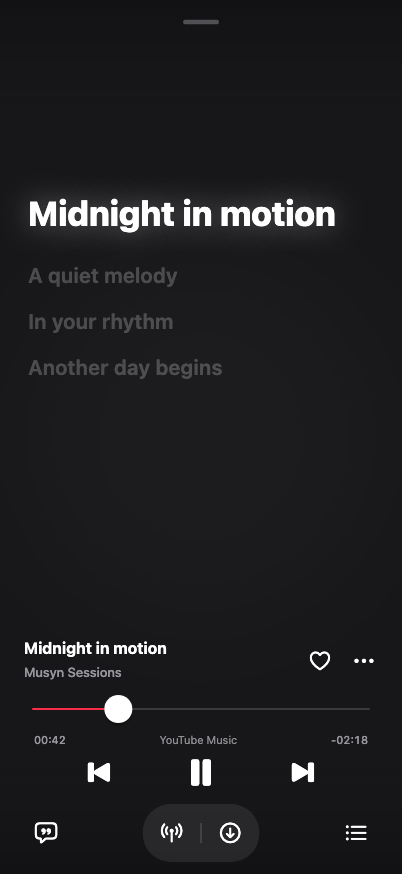
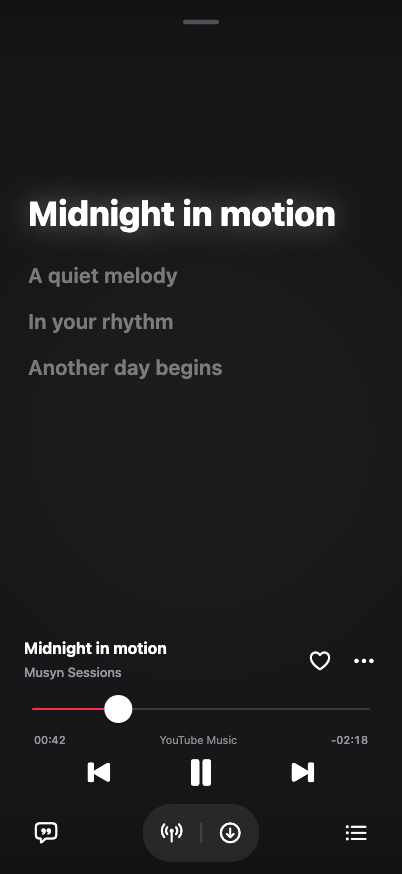
fix: guard source changes and offline replacement

Changed region(s): [[0.0597, 0.3089, 0.5672, 0.4325]]

diff --git a/test/queue_recommendation_race_test.dart b/test/queue_recommendation_race_test.dart
@@ -23,91 +23,105 @@ class ProbePlayer extends ControlledPlayer {
 
 void main() {
   TestWidgetsFlutterBinding.ensureInitialized();
-  test(
-    'clearing the queue invalidates an already-running end-of-queue recommendation',
-    () async {
-      final directory = await Directory.systemTemp.createTemp(
-        'musyn-audit-queue-',
-      );
-      Hive.init(directory.path);
-      for (final box in [
-        'settings',
-        'user',
-        'cache',
-        'youtube_auth',
-        'userNoBackup',
-      ]) {
-        await Hive.openBox(box, bytes: Uint8List(0));
-      }
-      TestDefaultBinaryMessengerBinding.instance.defaultBinaryMessenger
-          .setMockMethodCallHandler(
-            const MethodChannel('com.ryanheise.audio_session'),
-            (_) async => null,
-          );
-      final player = ProbePlayer()..paused = false;
-      final handler = MusynAudioHandler(player: player);
-      try {
-        offlineMode.value = false;
-        playNextSongAutomatically.value = true;
-        await handler.addToQueue({
-          'ytid': 'abcdefghijk',
-          'title': 'Original track',
-          'artist': 'Artist',
-          'duration': 180,
-        });
-        final offline = File('${directory.path}/recommendation.m4a');
-        await offline.writeAsBytes(List.filled(9000, 1));
-        userOfflineSongs.value = [
-          {
-            'ytid': 'lmnopqrstuv',
-            'title': 'Stale recommendation',
-            'artist': 'Artist',
-            'audioPath': offline.path,
-          },
-        ];
-        final entered = Completer<void>();
-        final response = Completer<http.Response>();
-        await http.runWithClient(
-          () async {
-            final skipping = handler.skipToNext();
-            await entered.future.timeout(const Duration(seconds: 2));
-            handler.clearQueue();
-            response.complete(
-              http.Response(
-                jsonEncode({
-                  'playlistPanelVideoRenderer': {
-                    'videoId': 'lmnopqrstuv',
-                    'title': {
-                      'runs': [
-                        {'text': 'Stale recommendation'},
-                      ],
-                    },
-                    'longBylineText': {
-                      'runs': [
-                        {'text': 'Artist'},
-                      ],
-                    },
-                  },
-                }),
-                200,
-              ),
-            );
-            await skipping.timeout(const Duration(seconds: 5));
-            expect(
-              handler.queue.value.map((item) => item.extras?['ytid']).toList(),
-              ['abcdefghijk'],
-            );
-          },
-          () => MockClient((request) {
-            if (!entered.isCompleted) entered.complete();
-            return response.future;
-          }),
+  for (final action in ['clearQueue', 'switchSource']) {
+    test(
+      '$action invalidates an already-running end-of-queue recommendation',
+      () async {
+        final directory = await Directory.systemTemp.createTemp(
+          'musyn-audit-queue-',
         );
-      } finally {
-        await handler.dispose();
-        await Hive.close();
-        await directory.delete(recursive: true);
-      }
-    },
-  );
+        Hive.init(directory.path);
+        for (final box in [
+          'settings',
+          'user',
+          'cache',
+          'youtube_auth',
+          'userNoBackup',
+        ]) {
+          await Hive.openBox(box, bytes: Uint8List(0));
+        }
+        TestDefaultBinaryMessengerBinding.instance.defaultBinaryMessenger
+            .setMockMethodCallHandler(
+              const MethodChannel('com.ryanheise.audio_session'),
+              (_) async => null,
+            );
+        final player = ProbePlayer()..paused = false;
+        final handler = MusynAudioHandler(player: player);
+        try {
+          offlineMode.value = false;
+          playNextSongAutomatically.value = true;
+          await handler.addToQueue({
+            'ytid': 'abcdefghijk',
+            'title': 'Original track',
+            'artist': 'Artist',
+            'duration': 180,
+          });
+          final offline = File('${directory.path}/recommendation.m4a');
+          await offline.writeAsBytes(List.filled(60000, 1));
+          userOfflineSongs.value = [
+            {
+              'ytid': 'abcdefghijk',
+              'title': 'Original track',
+              'artist': 'Artist',
+              'audioPath': offline.path,
+            },
+            {
+              'ytid': 'lmnopqrstuv',
+              'title': 'Stale recommendation',
+              'artist': 'Artist',
+              'audioPath': offline.path,
+            },
+          ];
+          final entered = Completer<void>();
+          final response = Completer<http.Response>();
+          await http.runWithClient(
+            () async {
+              final skipping = handler.skipToNext();
+              await entered.future.timeout(const Duration(seconds: 2));
+              if (action == 'clearQueue') {
+                handler.clearQueue();
+              } else {
+                expect(await handler.switchSource('offline'), 'offline');
+              }
+              response.complete(
+                http.Response(
+                  jsonEncode({
+                    'playlistPanelVideoRenderer': {
+                      'videoId': 'lmnopqrstuv',
+                      'title': {
+                        'runs': [
+                          {'text': 'Stale recommendation'},
+                        ],
+                      },
+                      'longBylineText': {
+                        'runs': [
+                          {'text': 'Artist'},
+                        ],
+                      },
+                    },
+                  }),
+                  200,
+                ),
+              );
+              await skipping.timeout(const Duration(seconds: 5));
+              expect(
+                handler.queue.value
+                    .map((item) => item.extras?['ytid'])
+                    .toList(),
+                ['abcdefghijk'],
+              );
+            },
+            () => MockClient((request) {
+              if (!entered.isCompleted) entered.complete();
+              return response.future;
+            }),
+          );
+        } finally {
+          await handler.dispose();
+          await Hive.close();
+          await directory.delete(recursive: true);
+        }
+      },
+    );
+  }
 }

diff --git a/lib/widgets/now_playing/lyrics/lyrics_theme.dart b/lib/widgets/now_playing/lyrics/lyrics_theme.dart
@@ -4,41 +4,35 @@ import 'package:musyn/theme/musyn_style.dart';
 /// Visual tokens for live / synced lyrics.
 ///
 /// Active line: center-aligned, highlighted in accent pink, bold, large.
-/// Past lines:  muted ~40% — clearly read, clearly behind.
-/// Future lines: very dim ~22% — readable but receding.
+/// Past lines: readable, muted text behind the current line.
+/// Future lines: receding text with enough contrast to follow along.
 class LyricsTheme {
-  LyricsTheme({
-    required this.isDark,
-    required Color accent,
-  }) : accent = accent == CupertinoColors.activeBlue
-      ? MusynStyle.appleRed
-      : accent;
+  LyricsTheme({required this.isDark, required Color accent})
+    : accent = accent == CupertinoColors.activeBlue
+          ? MusynStyle.appleRed
+          : accent;
 
   final bool isDark;
   final Color accent;
 
-  Color get canvas => isDark ? const Color(0xFF0A0A0E) : const Color(0xFFF2F2F7);
+  Color get canvas =>
+      isDark ? const Color(0xFF0A0A0E) : const Color(0xFFF2F2F7);
 
-  Color get onCanvas =>
-      isDark ? CupertinoColors.white : CupertinoColors.black;
+  Color get onCanvas => isDark ? CupertinoColors.white : CupertinoColors.black;
 
   /// Active line matches Apple Music signature high-contrast typography.
   Color get activeColor => onCanvas;
 
   /// Past lines — clearly visible but receded.
-  Color get pastColor =>
-      onCanvas.withValues(alpha: isDark ? 0.40 : 0.36);
+  Color get pastColor => onCanvas.withValues(alpha: isDark ? 0.55 : 0.50);
 
   /// Future / upcoming lines — very dim.
-  Color get futureColor =>
-      onCanvas.withValues(alpha: isDark ? 0.22 : 0.18);
+  Color get futureColor => onCanvas.withValues(alpha: 0.42);
 
   // Keep muted/faint/hairline/chipFill for other widgets that use LyricsTheme.
-  Color get muted =>
-      onCanvas.withValues(alpha: isDark ? 0.45 : 0.40);
+  Color get muted => onCanvas.withValues(alpha: isDark ? 0.45 : 0.40);
 
-  Color get faint =>
-      onCanvas.withValues(alpha: isDark ? 0.28 : 0.25);
+  Color get faint => onCanvas.withValues(alpha: isDark ? 0.28 : 0.25);
 
   Color get hairline =>
       isDark ? const Color(0x1AFFFFFF) : const Color(0x14000000);
@@ -46,19 +40,13 @@ class LyricsTheme {
   Color get chipFill =>
       isDark ? const Color(0x22FFFFFF) : const Color(0x12000000);
 
-  Color lineColor({
-    required bool isActive,
-    required bool isPast,
-  }) {
+  Color lineColor({required bool isActive, required bool isPast}) {
     if (isActive) return activeColor;
     if (isPast) return pastColor;
     return futureColor;
   }
 
-  double fontSize({
-    required bool isActive,
-    required LyricsLayout layout,
-  }) {
+  double fontSize({required bool isActive, required LyricsLayout layout}) {
     switch (layout) {
       case LyricsLayout.compact:
         return isActive ? 21 : 15;
@@ -92,12 +80,7 @@ class LyricsTheme {
       decoration: TextDecoration.none,
       // Soft pink glow on active line in full-screen.
       shadows: isActive && layout == LyricsLayout.stage
-          ? [
-              Shadow(
-                color: activeColor.withValues(alpha: 0.35),
-                blurRadius: 24,
-              ),
-            ]
+          ? [Shadow(color: activeColor.withValues(alpha: 0.35), blurRadius: 24)]
           : null,
     );
   }

diff --git a/lib/services/common_services.dart b/lib/services/common_services.dart
@@ -579,12 +579,14 @@ bool isPlaylistFullyOffline(List songs) {
   );
 }
 
+const minimumOfflineAudioBytes = 51201;
+
 bool _isPlayableAudioFile(String? path) {
   if (path == null || path.isEmpty) return false;
   try {
     final file = File(path);
     // 50 KB minimum — 8 KB was too low and marked truncated files as valid.
-    return file.existsSync() && file.lengthSync() > 51200;
+    return file.existsSync() && file.lengthSync() >= minimumOfflineAudioBytes;
   } catch (e) {
     logger.log('_isPlayableAudioFile check failed', error: e);
     return false;
@@ -1477,6 +1479,7 @@ Future<bool> _makeSongOffline(
           }
           await writeDownloadAtomically(
             destination: audioFile,
+            minimumBytes: minimumOfflineAudioBytes,
             bytes: response.stream,
             cancellation: cancellation,
             expectedBytes: response.contentLength,
@@ -1539,6 +1542,7 @@ Future<bool> _makeSongOffline(
         downloadedSource = 'youtube';
         audioBitrateKbps = audioManifest.bitrate.kiloBitsPerSecond.round();
         audioCodec = audioManifest.audioCodec;
+        if (audioCodec.toLowerCase().startsWith('video/')) return false;
         onResolved?.call('youtube', audioBitrateKbps);
 
         final streamDuration = youtubeStreamDurationSeconds(audioManifest.url);
@@ -1553,6 +1557,7 @@ Future<bool> _makeSongOffline(
         );
         await writeDownloadAtomically(
           destination: audioFile,
+          minimumBytes: minimumOfflineAudioBytes,
           bytes: stream,
           cancellation: cancellation,
           expectedBytes: audioManifest.size.totalBytes,

diff --git a/test/download_transfer_test.dart b/test/download_transfer_test.dart
@@ -87,6 +87,25 @@ void main() {
     );
   }
 
+  test(
+    'offline playback minimum is checked before replacing a saved copy',
+    () async {
+      final previous = List.filled(60000, 7);
+      await file.writeAsBytes(previous);
+      await expectLater(
+        writeDownloadAtomically(
+          destination: file,
+          bytes: Stream.value(List.filled(40000, 1)),
+          expectedBytes: 40000,
+          minimumBytes: 51201,
+          cancellation: DownloadCancellation(),
+        ),
+        throwsA(isA<HttpException>()),
+      );
+      expect(await file.readAsBytes(), previous);
+    },
+  );
+
   test('successful transfer commits the exact bytes', () async {
     final bytes = List.filled(9000, 7);
     final progress = <(int, int?)>[];

diff --git a/lib/services/audio/musyn_audio_handler.dart b/lib/services/audio/musyn_audio_handler.dart
@@ -2509,6 +2509,9 @@ class MusynAudioHandler extends PlaybackController {
       return null;
     }
     _playback.sourceSwitchInFlight = true;
+    // A new explicit source choice supersedes recommendation requests made for
+    // the previous selection, including requests that have not returned yet.
+    ++_selectionRevision;
     logger.log(
       'Source switch $previousSource → $source',
       data: {'ytid': ytid, 'title': song['title']},

diff --git a/docs/0.1.5-fixes.md b/docs/0.1.5-fixes.md
@@ -5,19 +5,19 @@ This change follows the seven supplied iPhone screenshots and the independently 
 ## Changes and evidence
 
 - **Content obscured by controls:** the shell reserves a viewport above the 56-point mini-player and native four-tab bar. Keyboard presentation hides the dock. A 402×874 fixture with 59/34-point safe-area insets verifies that content bounds stop above controls. Four full-shell renders are in `ui-review/iphone-*-dark.png`.
-- **Player and lyrics:** smaller transport icons; the lyrics/queue dock omits volume to preserve reading space; title styles become compact in those panes. Removed lyrics-only black gradients that produced the rectangular seam. Existing route pull/swipe and queue controls remain wired. `ui-review/lyrics-dark.png` shows the rendered lyrics pane.
+- **Player and lyrics:** smaller transport icons; the lyrics/queue dock omits volume to preserve reading space; title styles become compact in those panes. Removed lyrics-only black gradients that produced the rectangular seam and increased inactive-line contrast. Existing route pull/swipe and queue controls remain wired. `ui-review/lyrics-dark.png` shows the rendered lyrics pane.
 - **Sheets:** compact neutral provider rows, a real spring return for cancelled sheet drags, reachable close controls, and a sheet surface painted through the bottom safe area. Titles retain the full width at large text sizes. Source switching retains pending/error/retry behavior.
 - **Quality claims:** removed lossless labels from source and track details. Download preferences are upper limits, and activity displays the resolved source/bitrate only after resolution. Track details read the actual saved `audioBitrateKbps`/`audioCodec` keys.
 - **Refresh error and charts:** inspected the live anonymous `FEmusic_charts` response for India. It exposed national music-video charts, Trending 20, seven language charts and artist rankings, but no song chart. `YouTubePlaylistParser.officialCharts` scopes chart shelves, excludes artist/non-playlist entries, retains provider order within groups and labels each group/country. Songs are never replaced by video suggestions. Sanitized endpoint/title fixture: `test/fixtures/youtube_charts_india.json`. Country requests send `formData.selectedValues`; concurrent requests coalesce per region, and late responses cannot publish trending tracks for a different region. An unavailable song chart is availability rather than a failed refresh. Chart Play loads the actual playlist and starts at index zero without shuffle.
 - **Seek regression:** replaced the custom scrubber with a native slider plus track tap handling. Real pointer tests verify a 75% tap and cancellation without a seek. Fresh selections reset stale progress; source replacements preserve progress.
 - **Queue race:** foreground recommendations capture selection revision and current queue entry, reject results after Clear Queue/source/selection changes, and deduplicate concurrent end-of-queue requests. Background insertion rechecks after each awaited insertion.
-- **Download integrity:** exact known byte-count verification replaces the former 90% acceptance threshold. Tests reject both 9,500 and 10,500 bytes for a 10,000-byte transfer while preserving the previous file. Last-resort YouTube search matches recording identity through `TrackMatcher` rather than accepting the first valid video ID.
+- **Download integrity:** exact known byte-count verification replaces the former 90% acceptance threshold. Tests reject both 9,500 and 10,500 bytes for a 10,000-byte transfer while preserving the previous file. The offline playback minimum is also checked before an atomic replacement, so a complete but unusably small transfer cannot destroy an existing copy. Last-resort YouTube search matches recording identity through `TrackMatcher` rather than accepting the first valid video ID.
 - **iOS Favorite:** `audio_service` 0.18.19 explicitly disables `likeCommand` and has no native feedback implementation. A small Flutter channel bridges `MPRemoteCommandCenter.likeCommand` to the existing local favorites store, synchronizes active state and rejects stale track commands. Native callbacks are dispatched to the UI thread. Tests verify add/remove/idempotence, metadata preservation and stale-command rejection. The system controls whether and where the action appears; this is not a promise of a permanent lock-screen heart.
 - **Distribution links:** README points to current release/download surfaces. The website reads the maintainer-selected shared `source.json` independently of GitHub counter requests; it no longer pins 0.1.0. No shared-catalog refresh is triggered by this change.
 
 ## Validation and limits
 
-The full Flutter suite passed with 162 tests. After the final sheet header adjustment, 58 UI/source/download tests passed. Static analysis and branding/source-feed validation passed. Native build status is recorded below when complete. Headless renders cover dark/light mode, small phones, large text, portrait/landscape player, and actual phone safe-area dimensions. See `ui-review/README.md` for render provenance.
+The final full Flutter suite passed with 164 tests. The rendered UI/source/download suite also passed with 58 tests. Static analysis and branding/source-feed validation passed. Native build status is recorded below when complete. Headless renders cover dark/light mode, small phones, large text, portrait/landscape player, and actual phone safe-area dimensions. See `ui-review/README.md` for render provenance.
 
 This host has Command Line Tools but no full Xcode or iPhone simulator. Widget renders are fictional data and placeholder artwork, not physical-device screenshots. Native compilation is verified in the macOS GitHub build; device acceptance remains necessary for actual MPRemoteCommandCenter presentation, background audio transitions and network/provider behavior.
 
